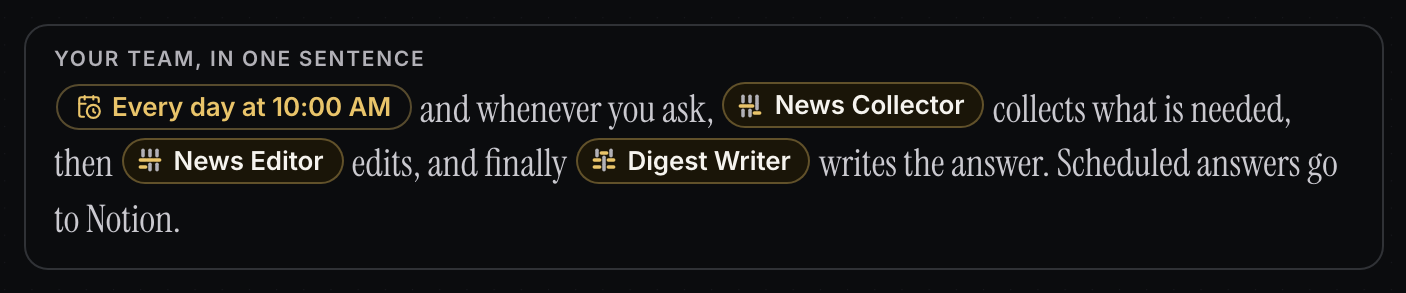
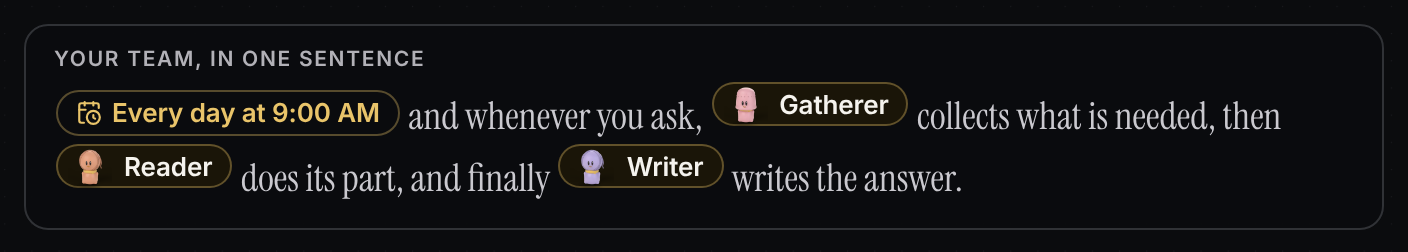
docs: re-record the README demo and step pictures in 0.4
The demo GIF still showed the 0.3 Chat | Build tabs, and the step
pictures showed agents as job icons. All seven are captured again from
0.4 running the bundled teams, with no AI account:

- demo.gif: the Review stop demo's Workflow canvas, then its chat: ask
  the team, approve Researcher's handover with the note "Keep it to one
  page.", and read Writer's answer, marked Nothing flagged (1080x700,
  15 fps, 632 KB, was 725 KB).
- step-build: the Daily tech digest example read back as one sentence,
  each agent with its figure.
- step-watch: the demo's chat while Researcher works, with a note
  waiting for its current step to end.
- step-review: Researcher's handover waiting for Approve or Send back.

Light and dark at 2x. The two alt texts whose pictures changed say what
they show now.

Claude-Session: https://claude.ai/code/session_01JSU4UjKy9P8JwwsMgmvKmR

diff --git a/README.md b/README.md
@@ -24,7 +24,7 @@
 </p>
 
 <p align="center">
-  <img src="docs/assets/readme/demo.gif" width="880" alt="The offline demo in LoomWatch: the three-step team on the Build canvas, then its chat. The operator writes @team Prepare a short getting-started guide for new users. Researcher's handover appears in the chat and the team waits. The operator approves it with the note Keep it to one page, and Writer's answer appears in the chat, marked Nothing flagged.">
+  <img src="docs/assets/readme/demo.gif" width="880" alt="The offline demo in LoomWatch: the three-step team on the Workflow canvas, then its chat. The operator writes @team Prepare a short getting-started guide for new users. Researcher's handover appears in the chat and the team waits. The operator approves it with the note Keep it to one page, and Writer's answer appears in the chat, marked Nothing flagged.">
   <br>
   <sub>The bundled offline demo: ask the team in its chat, approve the handover with a note, read the answer.</sub>
 </p>
@@ -85,7 +85,7 @@ anything runs.
 <td valign="middle">
 <picture>
   <source media="(prefers-color-scheme: dark)" srcset="docs/assets/readme/step-build-dark.png">
-  <img src="docs/assets/readme/step-build-light.png" alt="Your team, in one sentence: every day at 10:00 AM and whenever you ask, News Collector collects what is needed, then News Editor edits, and finally Digest Writer writes the answer. Scheduled answers go to Notion.">
+  <img src="docs/assets/readme/step-build-light.png" alt="Your team, in one sentence: every day at 9:00 AM and whenever you ask, Gatherer collects what is needed, then Reader does its part, and finally Writer writes the answer. Each agent wears its figure.">
 </picture>
 </td>
 </tr>
